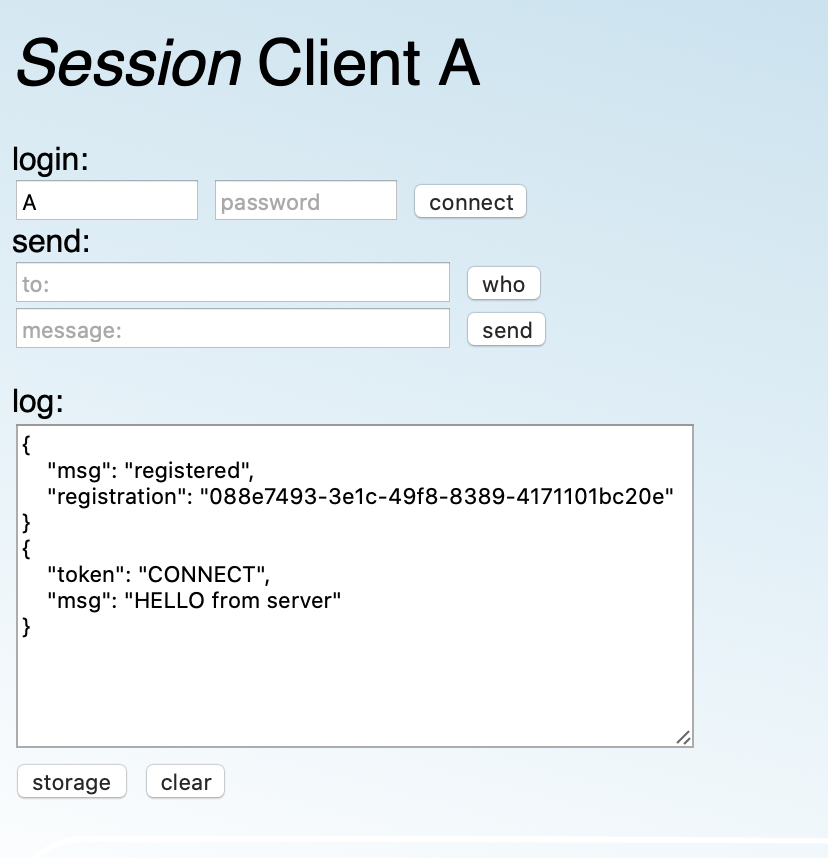
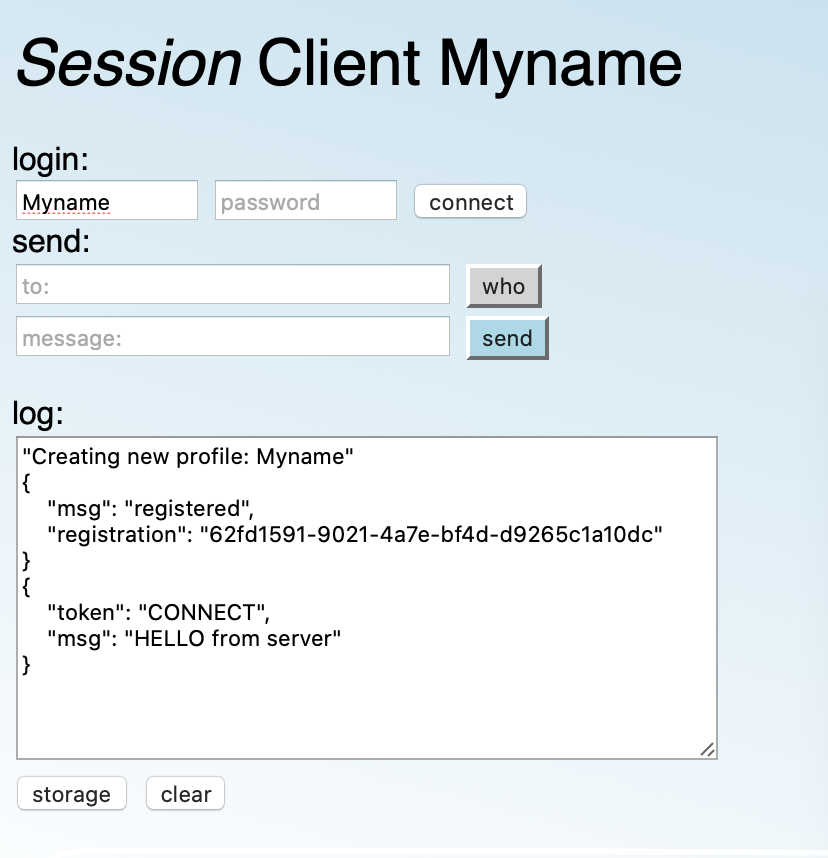
Documentation

diff --git a/README.md b/README.md
@@ -4,7 +4,7 @@
 
 <img src="./images/express_client.png" width="500">
 
-* Comparing a bare-bones CJS server with full featured 'express' server module and beyond. This is a series of independent client-server web apps, which build progressively on each other by introducing functionality from established node modules.
+* Comparing a bare-bones CJS server with full featured 'express' server module and beyond. This is a series of independent client-server web apps, which build progressively on each other by introducing functionality from established npm modules.
 
 * These utility templates make implementing a flexible server API an easy task, and demonstrate versatile vanilla RPC (remote procedure) support. With RPC, the challenge was to share a single library source file that both client and server can call, which can create conflicts between CJS and ESM module configurations.
 
@@ -67,8 +67,6 @@ Building a clean, exemplary websocket client to replace fragile long polling and
 ### *Session*
 
 Building on *WebSock* message exchange, with persistent named profiles and session states using client-side localStorage, and server-side client profile storage.
-
-The localStorage allocations persist across system reboot, and can become polluted during app testing and development. These are cleared through the browser's cookies/website-data management tools, listed as 'localhost', 'loca.lt', etc.
 
 
 ## Installation
@@ -363,5 +361,46 @@ connected clients:
 ## Testing Session
 
 <img src="./images/session_client.png" width="500">
+
+The *Session* app replaces incrementing ids with persistent string names, which are maintained in storage on both the client and server ends with a UUID registration key. The password defaults to lower-case/last-letter of the provided name, and is kept only in the server storage.
+
+Persistent named sessions reduce the need for some internal periodic maintenance messages that keep connections alive. Logging in from a second location will automatically disconnect the prior session.
+
+The localStorage allocations persist across system reboot, and can become polluted during app testing and development. These are cleared through the browser's cookies/website-data management tools, listed as 'localhost', 'loca.lt', etc.
+
+The *who* button sends a 'poke' message to all registered clients, and populates the *send-to* field automatically as they respond. As in prior apps, *ping* and *stop* messages will engage clients in a rapid ping pong session.
+
+Client-to-client communication is implemented through several layers of token based parsing. A simple *ping* message begins with a "forward" token, credentials, destination, and payload:
+
+```
+let send_obj = {
+	token: "forward",
+	client: {
+		name: "Myname",
+		registration: "XXX-XXX-..."
+	},
+	to: [ "Yourname" ],
+	payload: {
+		token: "message",
+		message: "ping"
+	}
+};
+```
+
+The server converts this to a forward-object and sends it to the named client:
+
+```
+let forward_obj = {
+	token: "recv",
+	from: "Myname",
+	payload: {
+		token: "message",
+		message: "ping"
+	}
+};
+```
+
+The receiving client utility passes "message" tokens to the front-end app code in index.html, where the message body is checked for recognized operations. Otherwise it is dumped to the output log buffer. These layers help distinguish top level client-to-client message passing from other internal messages.
+
 
 
